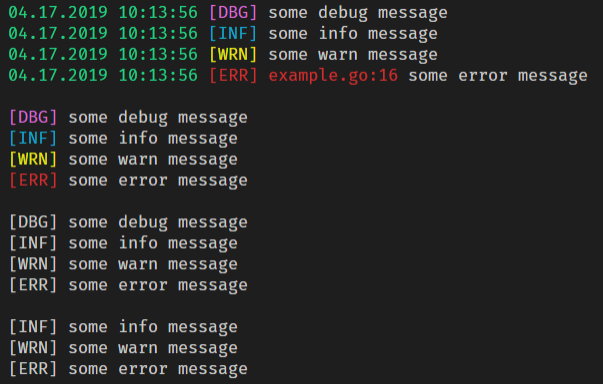
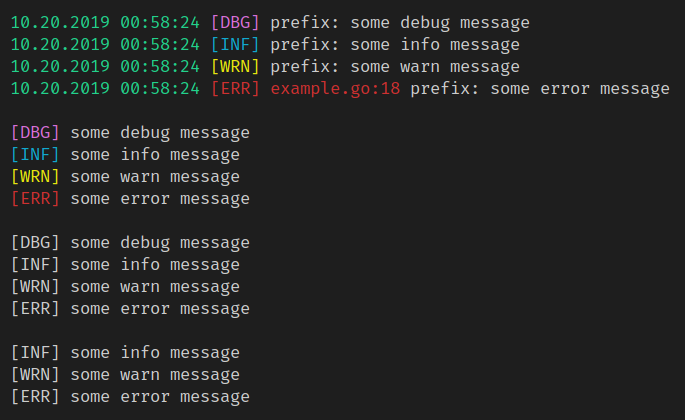
Update example

diff --git a/example/example.go b/example/example.go
@@ -9,7 +9,7 @@ func main() {
 	// For dev use log.NewDevConfig() or log.NewDevLogger()
 
 	c := &clog.Config{}
-	l := c.PrintColor(true).PrintErrorLine(true).PrintTime(true).SetLevel(clog.LevelDebug).Build()
+	l := c.PrintColor(true).PrintErrorLine(true).PrintTime(true).SetLevel(clog.LevelDebug).SetPrefix("prefix: ").Build()
 	l.Debug("some debug message")
 	l.Info("some info message")
 	l.Warn("some warn message")
